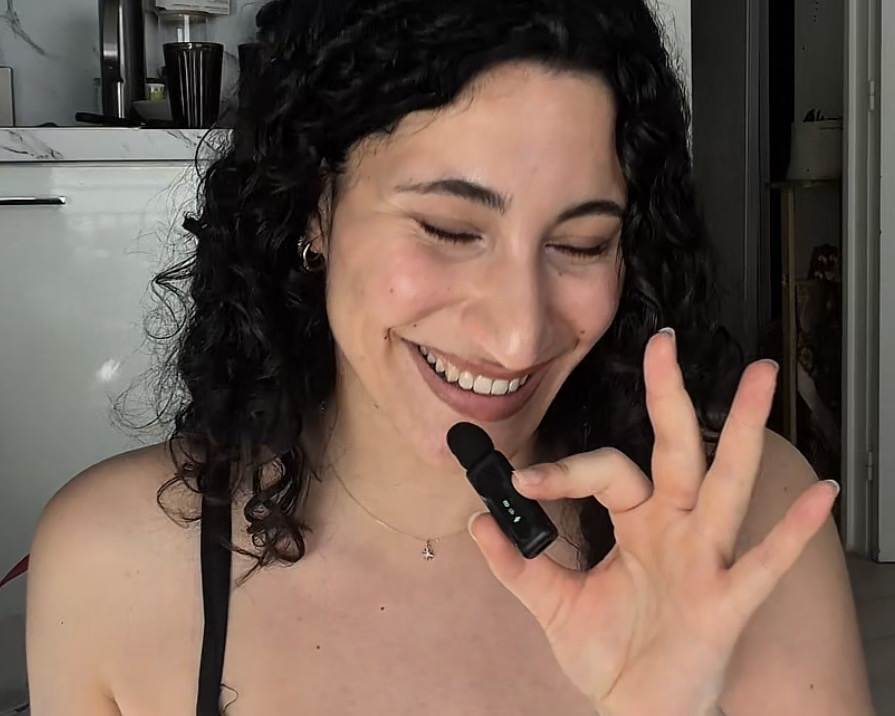
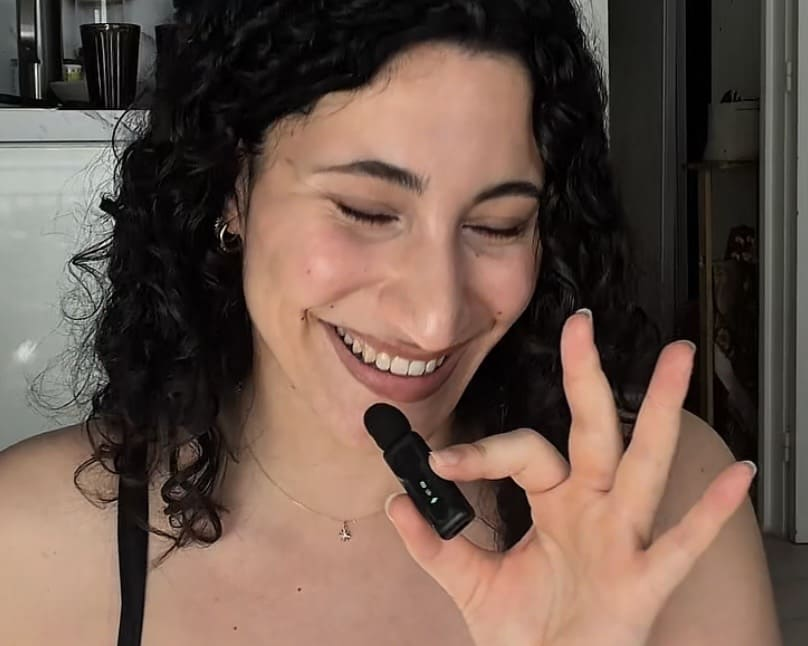
Mise à jour des fiches projets personnels

diff --git a/lib/content.ts b/lib/content.ts
@@ -192,14 +192,14 @@ export const projects: Project[] = [
   },
   {
     slug: 'creation-visuelle',
-    title: 'Création de contenu visuel FR/EN',
+    title: 'Création de contenu visuel multilingue',
     category: 'Contenu',
     year: '2024 → 2026',
     client: 'Ludi SFM — Nice',
     role: 'Création visuelle',
     cover: '/images/goodies-ludi-beige.jpeg',
     summary:
-      'Conception de contenus visuels bilingues : posts, goodies, signatures et éléments de marque.',
+      'Conception de contenus visuels multilingues : posts, goodies, signatures et éléments de marque.',
     challenge:
       'Doter l’entreprise d’une identité visuelle cohérente sur l’ensemble de ses points de contact.',
     approach: [
@@ -214,8 +214,10 @@ export const projects: Project[] = [
     ],
     tags: ['Design', 'Direction artistique', 'Outils de création'],
     gallery: [
-      { src: '/images/recrut-linkedin-ludi.png', alt: 'Post recrutement LinkedIn' },
-      { src: '/images/feed-ig-atelier-meaunn.jpg', alt: 'Feed Instagram' },
+      { src: '/images/goodies-ludi-beige.jpeg', alt: 'Goodies Ludi' },
+      { src: '/images/post-modulus.jpg', alt: 'Post Chinese NYE Modulus 2025' },
+      { src: '/images/card-modulus.jpg', alt: 'E-card Chinese NYE Modulus 2025' },
+      { src: '/images/post-moduloween.png', alt: 'Post Moduloween' },
     ]
   },
   {
@@ -241,10 +243,7 @@ export const projects: Project[] = [
       { value: 'Flexibilité', label: 'sur les temps forts' },
     ],
     tags: ['Vente directe', 'Relation client', 'Gestion de la pression'],
-    gallery: [
-      { src: '/images/recrut-linkedin-ludi.png', alt: 'Post recrutement LinkedIn' },
-      { src: '/images/feed-ig-atelier-meaunn.jpg', alt: 'Feed Instagram' },
-    ]
+    gallery: [{ src: '/images/zara-retail-pic.jpg', alt: 'Retail Zara' },]
   },
   {
     slug: 'kit-instagram',
@@ -253,7 +252,7 @@ export const projects: Project[] = [
     year: '2026',
     client: 'Atelier Meaunn',
     role: 'Stratégie de contenu & Brand Identity',
-    cover: '/images/kit-ig-template-atelier-meaunn.png',
+    cover: '/images/kit-instagram-atelier-meaunn-1.jpg',
     summary:
       'Conception d’une stratégie Instagram complète pour une marque artisanale de luminaires.',
     challenge:
@@ -270,8 +269,21 @@ export const projects: Project[] = [
     ],
     tags: ['Instagram', 'Stratégie de contenu', 'Brand Identity', 'Media Planning'],
     gallery: [
-      { src: '/images/recrut-linkedin-ludi.png', alt: 'Post recrutement LinkedIn' },
-      { src: '/images/feed-ig-atelier-meaunn.jpg', alt: 'Feed Instagram' },
+      { src: '/images/kit-instagram-atelier-meaunn-1.jpg', alt: 'Kit Instagram Atelier Meaunn' },
+      { src: '/images/kit-instagram-atelier-meaunn-2.jpg', alt: 'Kit Instagram Atelier Meaunn' },
+      { src: '/images/kit-instagram-atelier-meaunn-3.jpg', alt: 'Kit Instagram Atelier Meaunn' },
+      { src: '/images/kit-instagram-atelier-meaunn-4.jpg', alt: 'Kit Instagram Atelier Meaunn' },
+      { src: '/images/kit-instagram-atelier-meaunn-5.jpg', alt: 'Kit Instagram Atelier Meaunn' },
+      { src: '/images/kit-instagram-atelier-meaunn-6.jpg', alt: 'Kit Instagram Atelier Meaunn' },
+      { src: '/images/kit-instagram-atelier-meaunn-7.jpg', alt: 'Kit Instagram Atelier Meaunn' },
+      { src: '/images/kit-instagram-atelier-meaunn-8.jpg', alt: 'Kit Instagram Atelier Meaunn' },
+      { src: '/images/kit-instagram-atelier-meaunn-9.jpg', alt: 'Kit Instagram Atelier Meaunn' },
+      { src: '/images/kit-instagram-atelier-meaunn-10.jpg', alt: 'Kit Instagram Atelier Meaunn' },
+      { src: '/images/kit-instagram-atelier-meaunn-11.jpg', alt: 'Kit Instagram Atelier Meaunn' },
+      { src: '/images/kit-instagram-atelier-meaunn-12.jpg', alt: 'Kit Instagram Atelier Meaunn' },
+      { src: '/images/kit-instagram-atelier-meaunn-13.jpg', alt: 'Kit Instagram Atelier Meaunn' },
+      { src: '/images/kit-instagram-atelier-meaunn-14.jpg', alt: 'Kit Instagram Atelier Meaunn' },
+      { src: '/images/kit-instagram-atelier-meaunn-15.jpg', alt: 'Kit Instagram Atelier Meaunn' },
     ]
   },
   {
@@ -298,8 +310,9 @@ export const projects: Project[] = [
     ],
     tags: ['Bilingue', 'Traduction', 'Supports commerciaux', 'Identité de marque'],
     gallery: [
-      { src: '/images/recrut-linkedin-ludi.png', alt: 'Post recrutement LinkedIn' },
-      { src: '/images/feed-ig-atelier-meaunn.jpg', alt: 'Feed Instagram' },
+      { src: '/images/signature-mail-noel-ludi.png', alt: 'Signature Mail Noël Ludi' },
+      { src: '/images/luck-rising-rgl.png', alt: 'Luck Rising RGL' },
+      { src: '/images/luckyup-alfastreet.png', alt: 'Lucky Up Alfastreet' },
     ]
   },
 ]
@@ -362,13 +375,14 @@ gallery: [
  *   { type: 'image', src: '/images/mon-visuel-2.jpg' }
  *   { type: 'video', src: '/videos/mon-clip.mp4' }
  */
-export type PersonalMedia = { type: 'image' | 'video'; src: string }
+export type PersonalMedia = { type: 'image' | 'video'; src: string; poster?: string }
 
 export type PersonalProject = {
   slug: string
   title: string
   type: string
   image: string
+  video?: string
   description: string
   details?: string[]
   gallery: PersonalMedia[]
@@ -391,8 +405,8 @@ export const personal = {
       ],
       gallery: [
       { type: 'image', src: '/images/focus-design-1.jpeg' },
-      { type: 'image', src: '/images/focus-design-2.jpeg' },   // ajoute tes autres photos ici
-      { type: 'image', src: '/images/focus-design-3.jpeg' },
+      { type: 'image', src: '/images/focus-shoot-1.jpg' }, 
+      { type: 'image', src: '/images/focus-shoot-2.jpg' },
     // { type: 'video', src: '/videos/focus-video.mp4' }  // si tu veux une vidéo
       ],   
     },
@@ -403,6 +417,10 @@ export const personal = {
       video: '/videos/unboxing-micros.mp4',
       image: '/images/cover-unboxing-micros.jpg',
       description: 'Montage CapCut dynamique d’un unboxing, rythmé pour capter l’attention dès les premières secondes sur TikTok.',
+      details: [
+        'Montage entièrement réalisé sur CapCut, avec un rythme de coupes calé sur les codes natifs du format court.',
+        'Accroche construite sur les 3 premières secondes pour éviter le scroll et retenir l’attention jusqu’au bout.',
+      ],
       gallery: [
         { type: 'video', src: '/videos/unboxing-micros.mp4', poster: '/images/cover-unboxing-micros.jpg' },
       ],
@@ -410,14 +428,14 @@ export const personal = {
     {
       slug: 'feed-instagram-identite',
       title: 'Feed Instagram — Identité',
-      type: 'Réseaux sociaux',
-      image: '/images/feed-ig-atelier-meaunn.jpeg',
-      description: 'Qui a dit qu’un compte Instagram lifestyle ne pouvait pas contenir une structure visuelle cohérente et rythmée à l’image du créateur?',
+      type: 'Design & Branding',
+      image: '/images/feed-ig-atelier-meaunn.png',
+      description: 'Qui a dit qu’un compte Instagram professionnel ne pouvait pas contenir une structure visuelle cohérente et rythmée à l’image du créateur?',
       details: [
         'Construction d’une grille de publication pensée pour se lire d’un seul coup d’œil : alternance de plans serrés sur la matière, de mises en scène du produit et de respirations plus lifestyle.',
         'Harmonisation de la palette et de la lumière sur l’ensemble des visuels pour que le feed fonctionne comme une vitrine, pas comme une suite de posts isolés.',
       ],
-      gallery: [{ type: 'image', src: '/images/feed-ig-atelier-meaunn.jpeg' }],
+      gallery: [{ type: 'image', src: '/images/feed-ig-atelier-meaunn.png' }],
     },
     {
       slug: 'publicite-photobooth-tiktok',
@@ -437,7 +455,7 @@ export const personal = {
     {
       slug: 'identite-visuelle-soen',
       title: 'Identité visuelle — SOEN',
-      type: 'Branding',
+      type: 'Design & Branding',
       image: '/images/crea-soen-2026.png',
       description: 'Construction de mon identité de marque personnelle : logo, palette, typographie et univers verbal autour de mon nom.',
       details: [
@@ -449,7 +467,7 @@ export const personal = {
     {
       slug: 'proposition-crm-hubspot',
       title: 'Proposition de CRM — HubSpot',
-      type: 'Stratégie',
+      type: 'Stratégie & Business',
       image: '/images/proposition-crm-ludi.png',
       description: 'Conception et présentation d’un plan de déploiement de CRM en 3 phases pour Ludi SFM afin de suivre ses 204 casinos clients.',
       details: [
@@ -461,14 +479,17 @@ export const personal = {
     {
       slug: 'portfolio-soen',
       title: 'Portfolio — SOEN',
-      type: 'Développement web',
+      type: 'Design & Branding',
       image: '/plain-logo-soen.svg',
       description: 'Et si je vous disais que vous êtes en train de le parcourir ? Ce portfolio a été conçu par mes soins pour présenter mon travail et mes compétences.',
       details: [
         'Développement du site en Next.js, TypeScript et Tailwind CSS, avec un contenu entièrement centralisé pour pouvoir tout modifier sans toucher au design.',
         'Passage d’un premier prototype généré sur v0.app à une version locale, plus pérenne et éditable, déployée sur Netlify.',
       ],
-      gallery: [{ type: 'image', src: '/plain-logo-soen.svg' }],
+      gallery: [
+        { type: 'image', src: '/plain-logo-soen.svg' },
+        { type: 'image', src: '/s-logo-soen.svg' },
+      ], 
     },
   ] satisfies PersonalProject[],
 } as const

diff --git a/components/projets-personnels/catalogue.tsx b/components/projets-personnels/catalogue.tsx
@@ -121,8 +121,8 @@ function ProjectDetail({ project, onClose }: { project: PersonalProject; onClose
         onClick={onClose}
         className="absolute inset-0 bg-espresso/40 backdrop-blur-sm animate-in fade-in"
       />
-      <div className="relative flex h-full w-full max-w-[min(96vw,1100px)] flex-col overflow-y-auto bg-linen shadow-2xl animate-in slide-in-from-right duration-300">
-        <div className="sticky top-0 z-10 flex items-center justify-between border-b border-border bg-linen/90 px-6 py-4 backdrop-blur md:px-8">
+      <div className="relative flex h-full w-full max-w-[min(96vw,880px)] flex-col overflow-y-auto bg-ivoire shadow-2xl animate-in slide-in-from-right duration-300">
+        <div className="sticky top-0 z-10 flex items-center justify-between border-b border-border bg-ivoire/90 px-6 py-4 backdrop-blur md:px-8">
           <span className="font-serif text-lg text-cocoa">{project.type}</span>
           <button
             type="button"
@@ -134,14 +134,17 @@ function ProjectDetail({ project, onClose }: { project: PersonalProject; onClose
           </button>
         </div>
 
-        <div className="relative aspect-[16/10] w-full shrink-0">
+        <div className="relative aspect-[16/10] w-full shrink-0 bg-ivoire">
           {gallery[0].type === 'video' ? (
             <video
-              src={gallery[0].src}
               controls
               playsInline
-              className="h-full w-full object-cover"
-            />
+              preload="metadata"
+              poster={gallery[0].poster}
+              className="h-full w-full object-contain"
+            >
+              <source src={gallery[0].src} type="video/mp4" />
+            </video>
           ) : (
             <Image
               src={gallery[0].src || '/placeholder.svg'}
@@ -186,11 +189,14 @@ function ProjectDetail({ project, onClose }: { project: PersonalProject; onClose
                   media.type === 'video' ? (
                     <video
                       key={media.src + i}
-                      src={media.src}
                       controls
                       playsInline
-                      className="aspect-[4/3] w-full rounded-xl border border-border object-cover"
-                    />
+                      preload="metadata"
+                      poster={media.poster}
+                      className="aspect-[4/3] w-full rounded-xl border border-border object-contain bg-ivoire"
+                    >
+                      <source src={media.src} type="video/mp4" />
+                    </video>
                   ) : (
                     <div
                       key={media.src + i}

diff --git a/app/etude-de-cas/page.tsx b/app/etude-de-cas/page.tsx
@@ -13,7 +13,7 @@ export const metadata: Metadata = {
 export default function CaseStudyPage() {
   return (
     <>
-      <PageHeader index="04" eyebrow={caseStudy.eyebrow} title={caseStudy.title} intro={caseStudy.subtitle} />
+      <PageHeader index="04" eyebrow={caseStudy.eyebrow} title={caseStudy.title} intro={caseStudy.subtitle as unknown as readonly string[]} />
 
       {/* Visuel principal */}
       <section className="px-5 pt-12 md:px-8 md:pt-16">
@@ -98,11 +98,11 @@ export default function CaseStudyPage() {
       {/* Galerie */}
       <section className="px-5 pb-8 md:px-8">
         <div className="mx-auto grid max-w-6xl gap-4 sm:grid-cols-3">
-          {caseStudy.gallery.map((src, i) => (
-            <Reveal key={src} delay={i * 80}>
+          {caseStudy.gallery.map((item, i) => (
+            <Reveal key={item.src} delay={i * 80}>
               <div className="relative aspect-[3/4] overflow-hidden rounded-2xl border border-border bg-ivoire">
                 <Image
-                  src={src || '/placeholder.svg'}
+                  src={item.src || '/placeholder.svg'}
                   alt={`${caseStudy.title} — visuel ${i + 1}`}
                   fill
                   className="object-cover"

diff --git a/components/realisations/catalogue.tsx b/components/realisations/catalogue.tsx
@@ -124,8 +124,8 @@ function ProjectDetail({ project, onClose }: { project: Project; onClose: () => 
         onClick={onClose}
         className="absolute inset-0 bg-espresso/40 backdrop-blur-sm animate-in fade-in"
       />
-      <div className="relative flex h-full w-full max-w-[min(100vw,800px)] flex-col overflow-y-auto bg-linen shadow-2xl animate-in slide-in-from-right duration-300">
-        <div className="sticky top-0 z-10 flex items-center justify-between border-b border-border bg-linen/90 px-6 py-4 backdrop-blur md:px-8">
+      <div className="relative flex h-full w-full max-w-[min(100vw,760px)] flex-col overflow-y-auto bg-ivoire shadow-2xl animate-in slide-in-from-right duration-300">
+        <div className="sticky top-0 z-10 flex items-center justify-between border-b border-border bg-ivoire/90 px-6 py-4 backdrop-blur md:px-8">
           <span className="font-serif text-lg text-cocoa">N° {number}</span>
           <button
             type="button"

diff --git a/components/page-header.tsx b/components/page-header.tsx
@@ -9,7 +9,7 @@ export function PageHeader({
   index: string
   eyebrow: string
   title: string
-  intro?: string | string[]
+  intro?: string | readonly string[]
 }) {
   const introLines = typeof intro === 'string' ? [intro] : intro
 